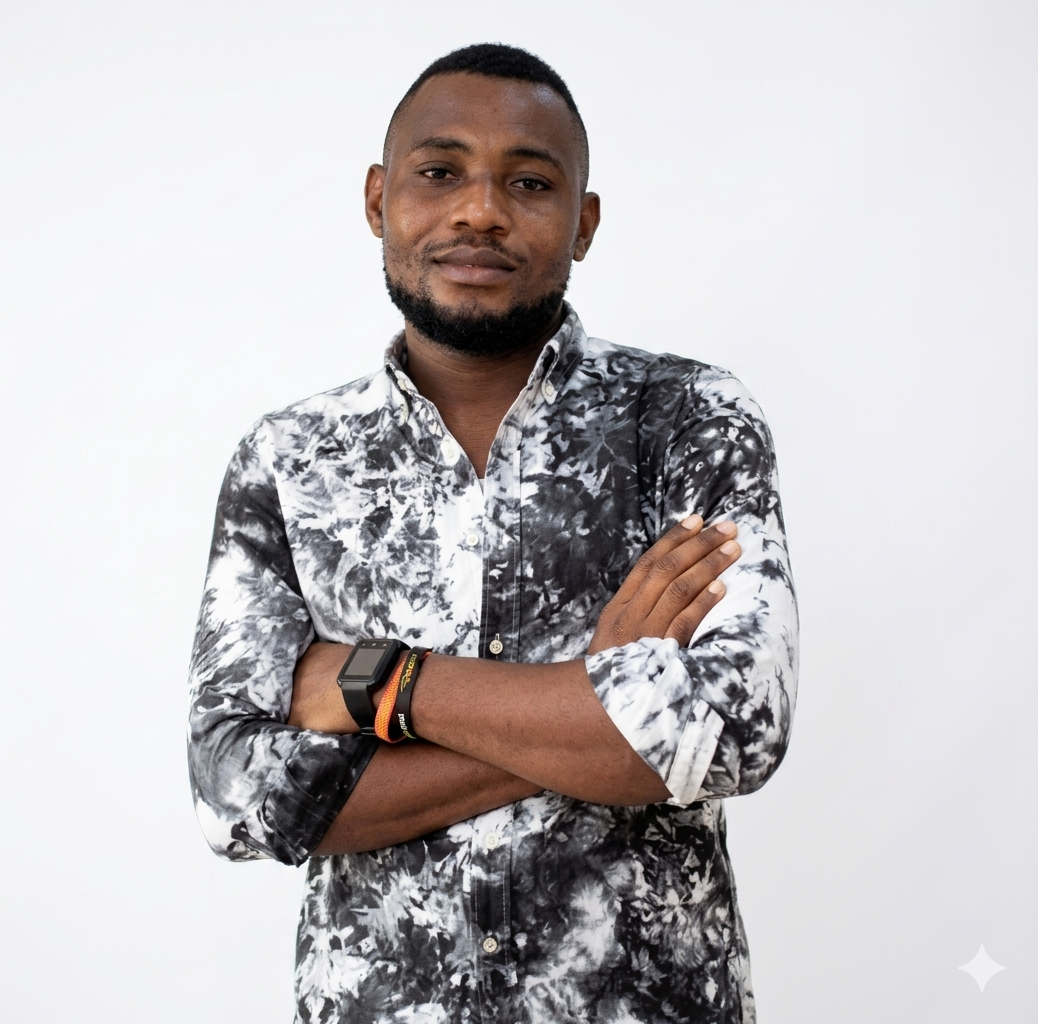
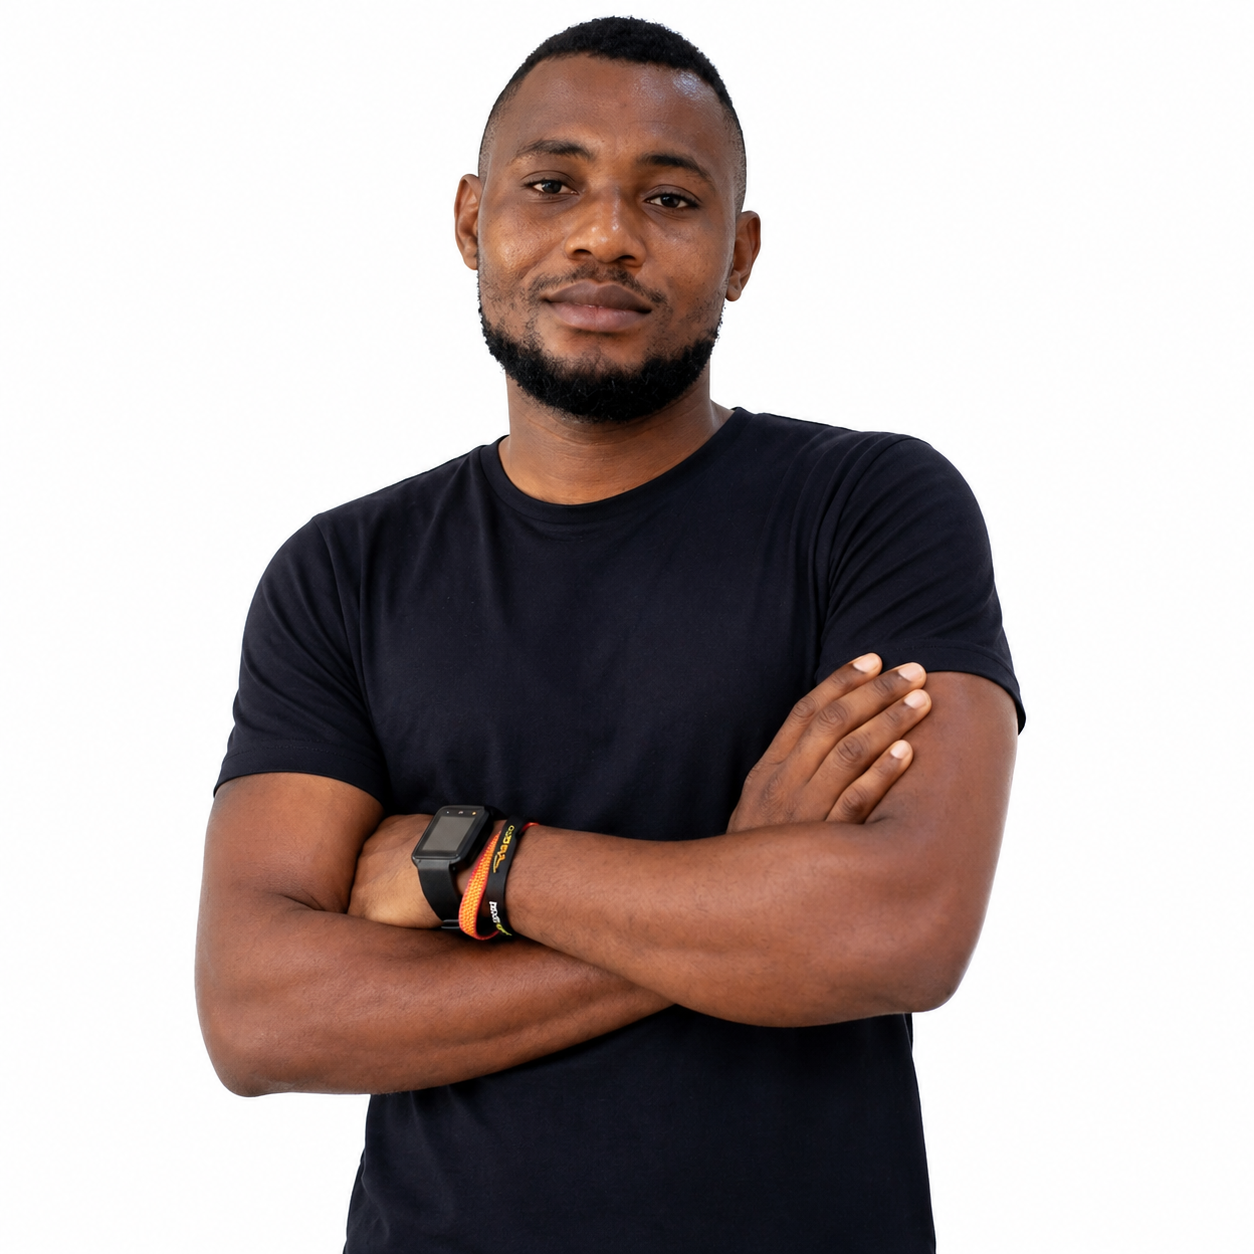
Add new team headshots

diff --git a/about.html b/about.html
@@ -160,16 +160,21 @@
       <!-- Team -->
       <section class="about-team">
         <div class="team-grid">
-          <div class="team-member" style="background-image: url('assets/headshots/babs.png')"></div>
+          <div class="team-member" style="background-image: url('assets/headshots/babs.png?v=20260430')"></div>
+          <div class="team-member" style="background-image: url('assets/headshots/barene.png')"></div>
+          <div class="team-member" style="background-image: url('assets/headshots/bukola.png')"></div>
           <div class="team-member" style="background-image: url('assets/headshots/daramola.jpeg')"></div>
           <div class="team-member" style="background-image: url('assets/headshots/david.png')"></div>
           <div class="team-member" style="background-image: url('assets/headshots/elvis.png')"></div>
+          <div class="team-member" style="background-image: url('assets/headshots/gb.png')"></div>
           <div class="team-member" style="background-image: url('assets/headshots/kemi.png')"></div>
           <div class="team-member" style="background-image: url('assets/headshots/lanre.png')"></div>
           <div class="team-member" style="background-image: url('assets/headshots/lydia.png')"></div>
           <div class="team-member" style="background-image: url('assets/headshots/motola.png')"></div>
           <div class="team-member" style="background-image: url('assets/headshots/oyin.png')"></div>
           <div class="team-member" style="background-image: url('assets/headshots/seye.png')"></div>
+          <div class="team-member" style="background-image: url('assets/headshots/tomisin.png')"></div>
+          <div class="team-member" style="background-image: url('assets/headshots/tosin.png')"></div>
         </div>
         <h2 class="team-overlay">The <em>Team</em></h2>
       </section>
